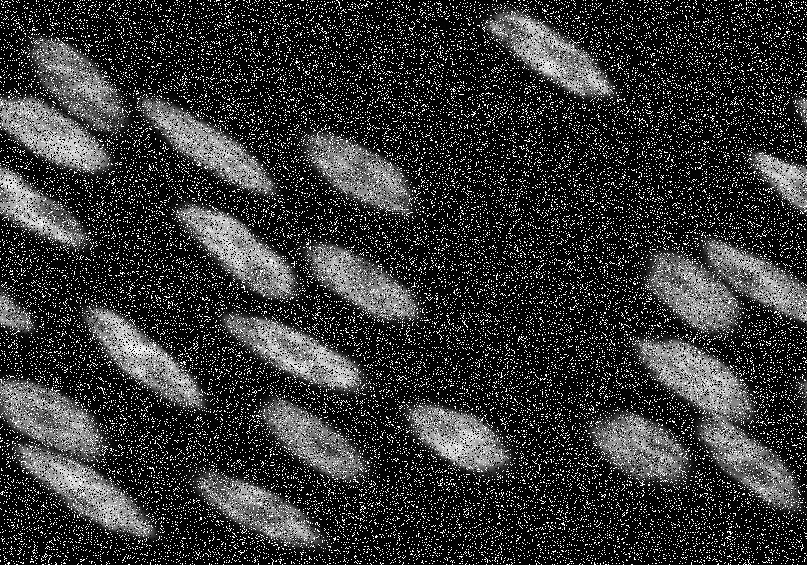
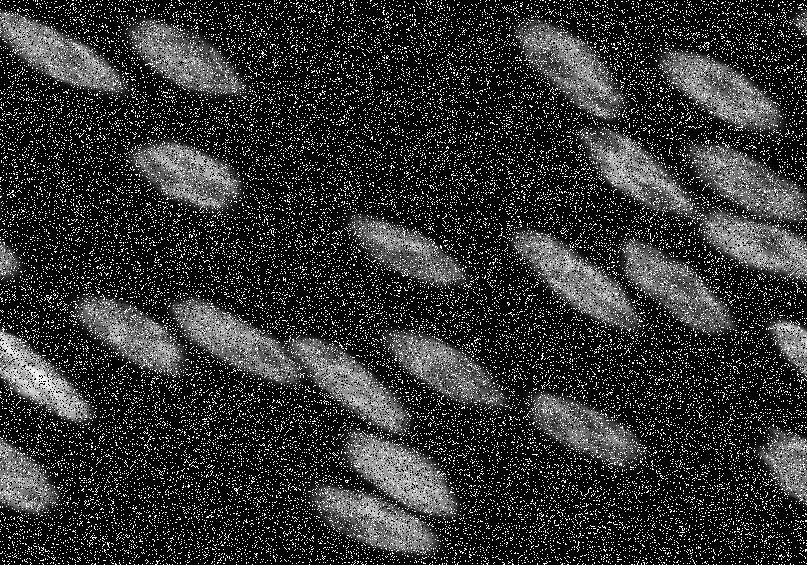
Computer Vision-1: Experimented with noice cancelling and filtering with the new images. Found all contours.

diff --git a/Computer Vision/hw1.py b/Computer Vision/hw1.py
@@ -4,6 +4,7 @@ import numpy as np
 img_nf = cv2.imread('NF7.png', cv2.IMREAD_GRAYSCALE)
 img_n = cv2.imread('N7.png', cv2.IMREAD_GRAYSCALE)
 
+print(img_n.shape[0], img_n.shape[1])
 cv2.namedWindow('image', )
 cv2.imshow('image', img_nf)
 cv2.waitKey(0)
@@ -32,7 +33,7 @@ def median_filter(data, filter_size):
             )[index]
     return data
 
-filtered = median_filter(img_n, 3)
+filtered = median_filter(img_n, 5)
 
 # cv2.namedWindow('after', )
 # cv2.imshow('after', filtered)
@@ -61,17 +62,35 @@ oc = cv2.morphologyEx(open, cv2.MORPH_CLOSE, strel)
 # cv2.imshow('afteroc', close)
 # cv2.waitKey(0)
 
-T, binary_nf = cv2.threshold(img_nf, 50, 255, cv2.THRESH_BINARY)
-T, binary_n = cv2.threshold(open, 50, 255, cv2.THRESH_BINARY)
+T_nf, binary_nf = cv2.threshold(img_nf, 54, 255, cv2.THRESH_BINARY)
+binary_nf[:,300:] = cv2.morphologyEx(binary_nf[:,300:], cv2.MORPH_CLOSE, strel)
+T, binary_n = cv2.threshold(open, 56, 255, cv2.THRESH_BINARY)
 
-cv2.namedWindow('binary_nf', )
-cv2.imshow('binary_nf', binary_nf)
-cv2.waitKey(0)
-
+# cv2.namedWindow('binary_nf', )
+# cv2.imshow('binary_nf', binary_nf)
+# cv2.waitKey(0)
+#
 # cv2.namedWindow('binary_n', )
 # cv2.imshow('binary_n', binary_n)
 # cv2.waitKey(0)
 
-print(T)
+img_cont_nf, contours_nf, hierarchy_nf = cv2.findContours(binary_nf, cv2.RETR_TREE, cv2.CHAIN_APPROX_SIMPLE)
+cv2.drawContours(img_cont_nf, contours_nf, -1, 127, 2)
+
+img_cont_n, contours_n, hierarchy_n = cv2.findContours(binary_n, cv2.RETR_TREE, cv2.CHAIN_APPROX_SIMPLE)
+cv2.drawContours(img_cont_n, contours_n, -1, 127, 2)
+
+cv2.namedWindow('binary_n', )
+cv2.imshow('binary_n', binary_n)
+cv2.waitKey(0)
+
+
+cv2.namedWindow('contours_nf', )
+cv2.imshow('contours_nf', img_cont_nf)
+cv2.waitKey(0)
+
+cv2.namedWindow('contours_n', )
+cv2.imshow('contours_n', img_cont_n)
+cv2.waitKey(0)
 
 cv2.destroyAllWindows()
